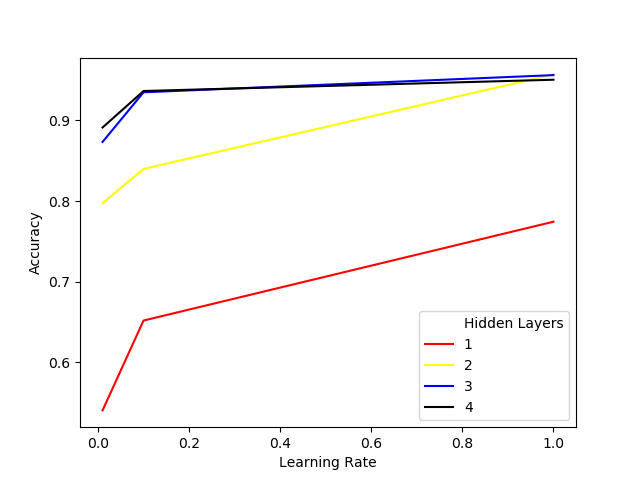
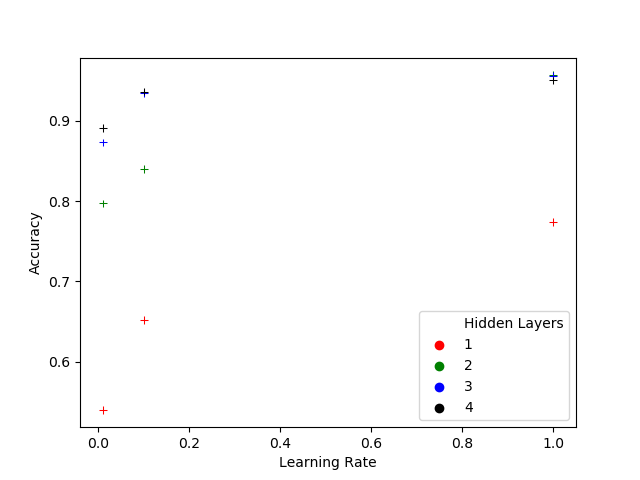
adding parallel graphs and automatazing plot gen script

diff --git a/MiniProjeto1/reconhecimento/src/load_plots.py b/MiniProjeto1/reconhecimento/src/load_plots.py
@@ -13,5 +13,5 @@ if __name__ == '__main__':
             df = pd.read_csv(fileName)
             b_size = pow(2,int(batchSizeIndex)+2)
             data = df[df['Batch Size']==b_size]
-            sns.lineplot(x='Learning Rate', y='Accuracy', hue='Hidden Layers', palette=['red','yellow','blue', 'black'],data=data)
+            sns.scatterplot(x='Learning Rate', y='Accuracy', hue='Hidden Layers', s=30, palette=['red','green','blue', 'black'], data=data, marker="+", legend="full")
             plt.savefig('Graphs/' + fileName + ' - ' + 'Batch'+str(b_size)+'.png')
